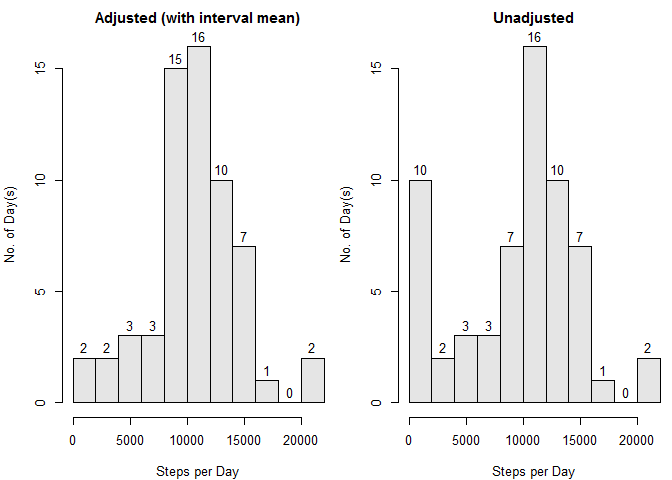
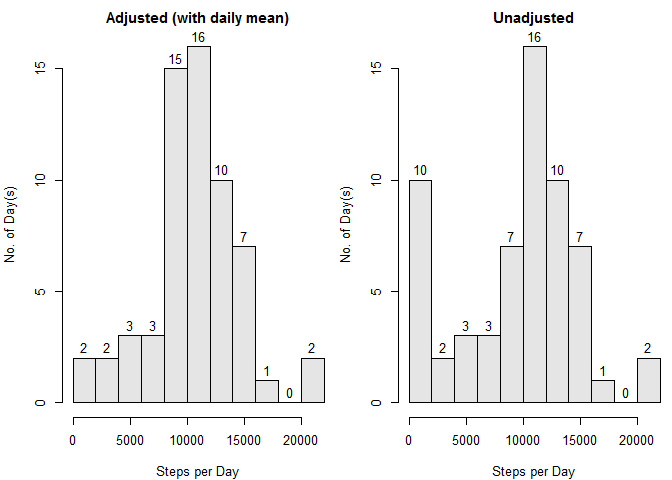
typo

Changed region(s): [[0.125, 0.0, 0.4688, 0.0625]]

diff --git a/PA1_template.html b/PA1_template.html
@@ -182,7 +182,7 @@ par(mar   = c(4, 4, 2, 0) + 0.1,
 
 #after
 hist(t.total.steps.day, breaks = 10,
-     main = 'Adjusted (with interval mean)',
+     main = 'Adjusted (with daily mean)',
      xlab = 'Steps per Day', ylab = 'No. of Day(s)',
      labels = T,
      col = 'grey90')
@@ -193,7 +193,7 @@ hist(total.steps.day, breaks = 10,
      xlab = 'Steps per Day', ylab = 'No. of Day(s)',
      labels = T,
      col = 'grey90')</code></pre>
[2 lines of base64/hex data omitted]
 <pre class="r"><code>#unadjusted
 mean(total.steps.day)</code></pre>
 <pre><code>## [1] 9354.23</code></pre>

diff --git a/PA1_template.md b/PA1_template.md
@@ -182,7 +182,7 @@ par(mar   = c(4, 4, 2, 0) + 0.1,
 
 #after
 hist(t.total.steps.day, breaks = 10,
-     main = 'Adjusted (with interval mean)',
+     main = 'Adjusted (with daily mean)',
      xlab = 'Steps per Day', ylab = 'No. of Day(s)',
      labels = T,
      col = 'grey90')
